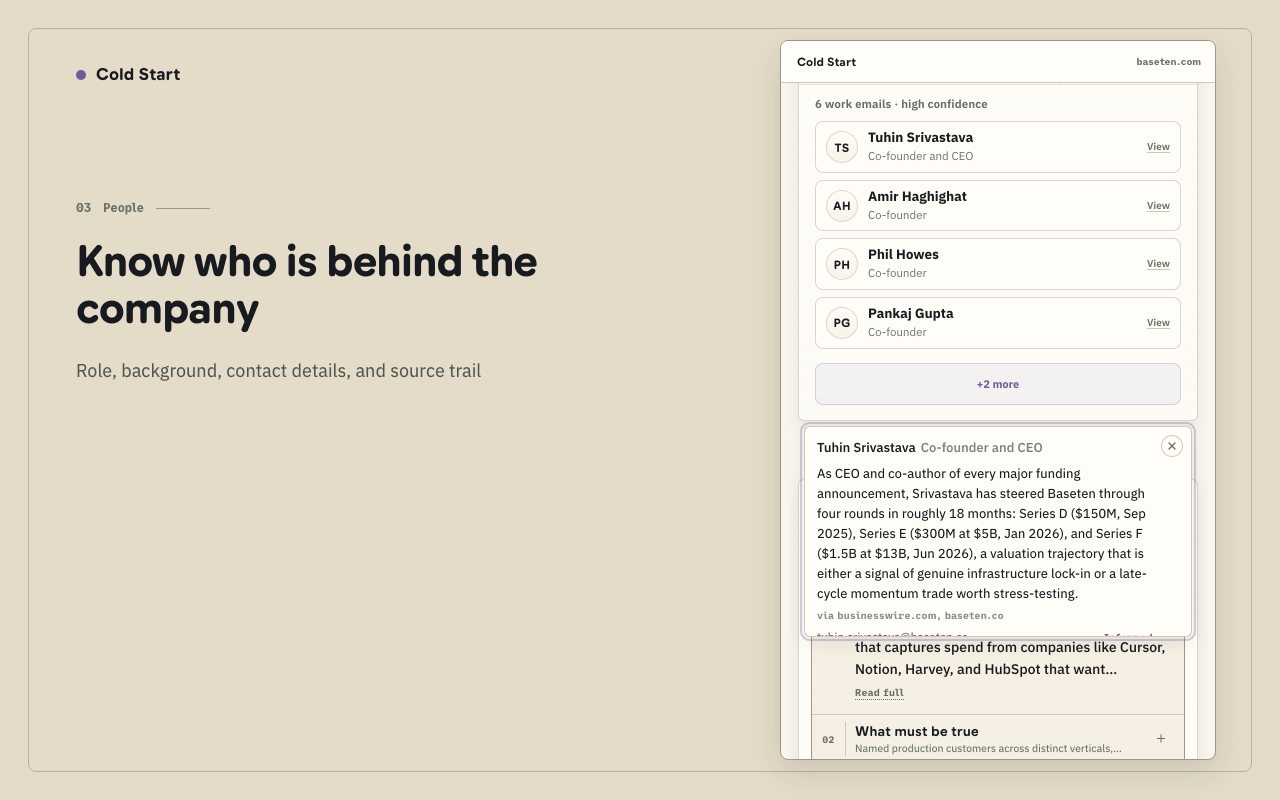
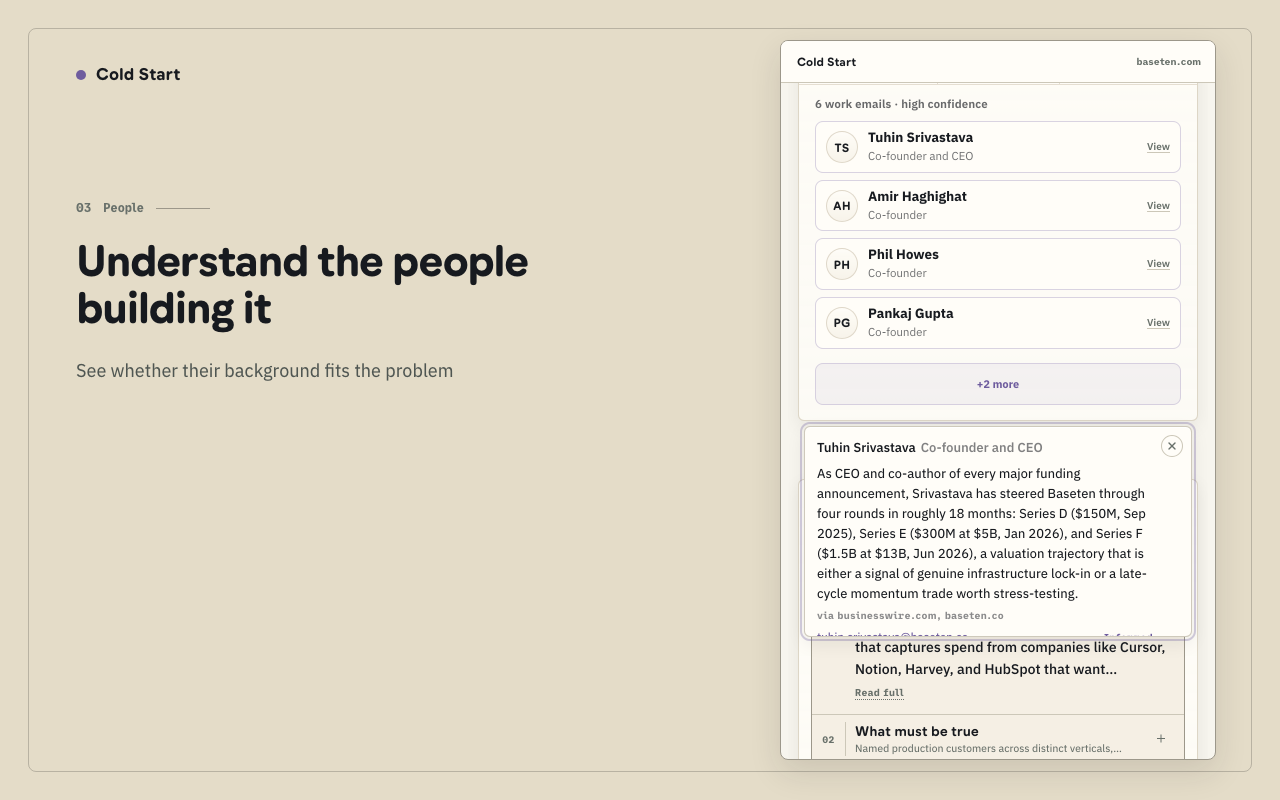
Clarify people screenshot value

Changed region(s): [[0.0625, 0.3125, 0.4375, 0.4688]]

diff --git a/apps/extension/tests/e2e/store-assets.spec.ts b/apps/extension/tests/e2e/store-assets.spec.ts
@@ -365,8 +365,8 @@ test("generates sharp Chrome Web Store assets from real extension fixtures", asy
       filename: "screenshot-people-1280x800.png",
       index: "03",
       label: "People",
-      heading: "Know who is behind the company",
-      body: "Role, background, contact details, and source trail",
+      heading: "Understand the people building it",
+      body: "See whether their background fits the problem",
       domain: people.domain,
       image: people.image,
       imageOffsetY: -330
